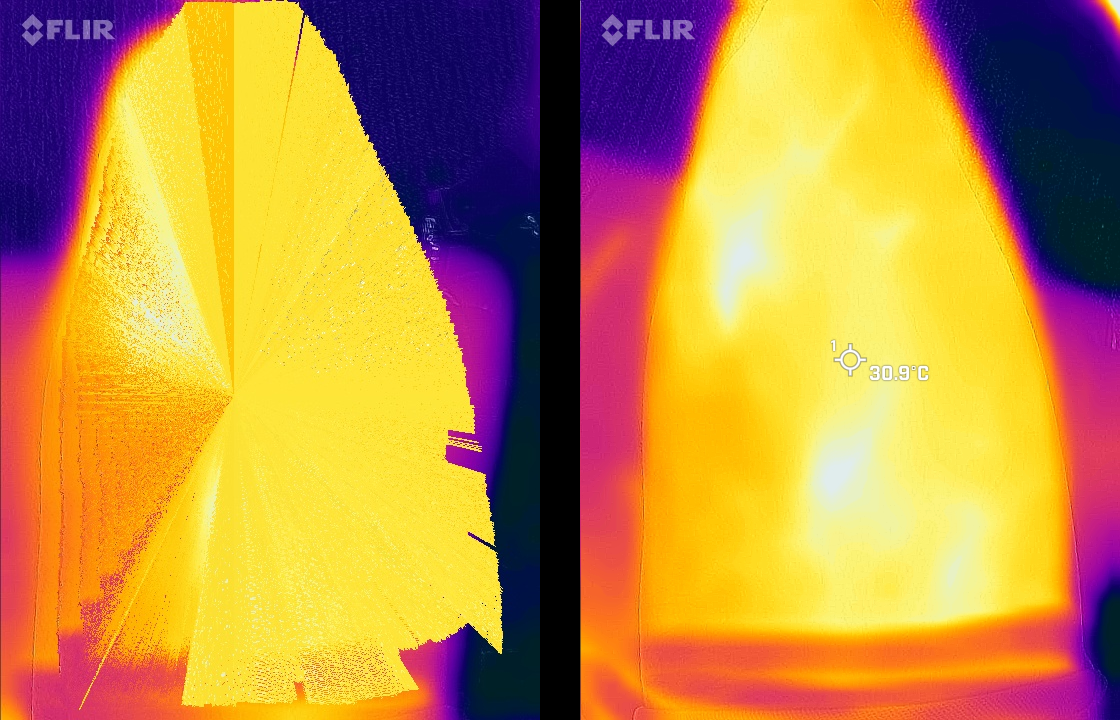
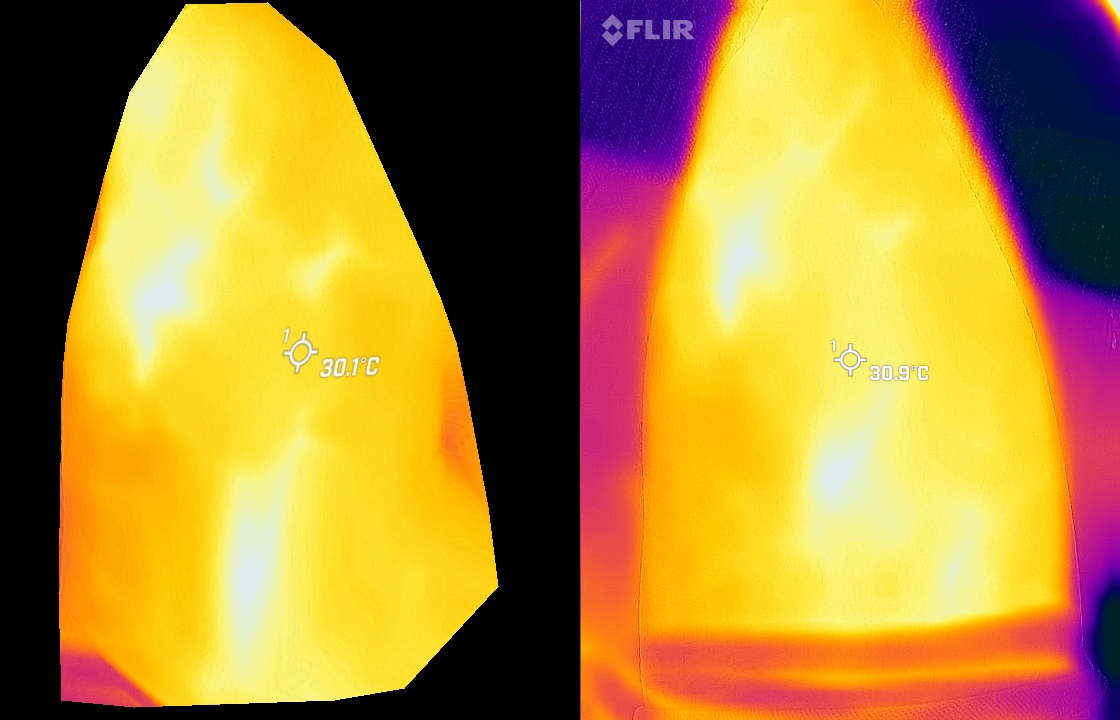
Added a much better mesh deformation algorithm. now I'm trying to fix the image difference algorithm. next task is to get some more thermal + visual data so that I can very the thermal difference algorithm (simple subtraction may not work because the image is a heatmap with seemingly nonlinear color

diff --git a/pipeline/deform.py b/pipeline/deform.py
@@ -6,6 +6,7 @@ import argparse
 from tqdm import tqdm
 import numpy as np
 from scipy import ndimage
+import skimage
 
 def dist(t1, t2):
     return ((t1[0] - t2[0])**2 + (t1[1] - t2[1])**2)**0.5
@@ -225,10 +226,53 @@ def deform_image(img2, center, m1_edge_pts, m2_edge_pts, thermal2, fileName, fil
     cv2.imwrite(fileName, new_img2)
     cv2.imwrite(fileNameThermal, new_thermal)
     print("Total time to deform = ", time.perf_counter() - start)
-    pass
 
-def meshDeform():
-    warped = cv2.remap(thermal2_dst,src,dst,cv2.INTER_LINEAR)
+"""
+https://scikit-image.org/docs/stable/api/skimage.transform.html#skimage.transform.warp
+https://scikit-image.org/docs/dev/auto_examples/transform/plot_piecewise_affine.html
+https://mail.python.org/pipermail/scikit-image/2016-July/004783.html
+"""
+def meshDeform(img2, center, m1_edge_pts, m2_edge_pts, thermal2, fileName, fileNameThermal):
+    # Take a sample of the edge point pairs
+    sample_size = 30
+    sample_src = []
+    sample_dst = []
+    for i in range(0, len(m1_edge_pts), len(m1_edge_pts) // sample_size):
+        sample_src.append(m2_edge_pts[i])
+        sample_dst.append(m1_edge_pts[i])
+
+    # displacement_mtrx = np.zeros(())
+
+    src_unzpd = list(zip(*sample_src))
+    dst_unzpd = list(zip(*sample_dst))
+
+    src_rows = np.array(src_unzpd[0])
+    src_cols = np.array(src_unzpd[1])
+    src_pts = np.dstack([src_cols.flat, src_rows.flat])[0]
+
+    dst_cols = np.array(dst_unzpd[1])
+    dst_rows = np.array(dst_unzpd[0])
+    dst_pts = np.vstack([dst_cols, dst_rows]).T
+
+    tform = skimage.transform.PiecewiseAffineTransform()
+    tform.estimate(src_pts, dst_pts)
+
+    out = skimage.transform.warp(img2, tform)*255
+    out_thermal = (skimage.transform.warp(thermal2, tform)*255)
+
+    out = out.astype(np.uint8)
+    out_thermal = out_thermal.astype(np.uint8)
+    
+    print("OUT SHAPE: ", out.shape)
+    print("img2 shape: ", img2.shape)
+    print("range: ", out.min(), ", ", out.max())
+    print("range img2: ", img2.min(), ", ", img2.max())
+
+    cv2.imshow("warped mesh image", np.concatenate((img2*255, out), axis=1))
+    cv2.waitKey(1000)
+    cv2.destroyAllWindows()
+    cv2.imwrite(fileName, out)
+    cv2.imwrite(fileNameThermal, out_thermal)
 
 # Non-affine transformation
 def cv2Deform(img2, center, m1_edge_pts, m2_edge_pts, thermal2, fileName, fileNameThermal):
@@ -259,14 +303,11 @@ def cv2Deform(img2, center, m1_edge_pts, m2_edge_pts, thermal2, fileName, fileNa
     im_dst = cv2.warpPerspective(img2, h, img2.shape[1::-1])
     thermal2_dst = cv2.warpPerspective(thermal2, h, img2.shape[1::-1])
 
-    cv2.imshow("center", im_dst)
-    cv2.waitKey(3000)
-    cv2.imshow("center", thermal2_dst)
-    cv2.waitKey(3000)
-    cv2.destroyAllWindows()
-
-    pass
-
+    # cv2.imshow("center", im_dst)
+    # cv2.waitKey(3000)
+    # cv2.imshow("center", thermal2_dst)
+    # cv2.waitKey(3000)
+    # cv2.destroyAllWindows()
 
 if __name__ == "__main__":
 
@@ -312,13 +353,19 @@ if __name__ == "__main__":
     # visualize_pairs(img1, m1_edge_pts, img2, m2_edge_pts)
 
     # Now we have the centers, edges, and the lines that connect them. We simply have to "extend" the lines of pixels in one image to the other image.
-    deform_image(img1, center, m1_edge_pts, m2_edge_pts, thermal1, out + "deformed_" + image_1_path.split('/')[-1], out + "thermal_deformed_" + thermal_1_path.split('/')[-1])
-    cv2Deform(img1, center, m1_edge_pts, m2_edge_pts, thermal1, out + "deformed_" + image_1_path.split('/')[-1], out + "thermal_deformed_" + thermal_1_path.split('/')[-1])
-
+    
+    # Alternative (polar) Scaling Method
+    # deform_image(img1.copy(), center, m1_edge_pts, m2_edge_pts, thermal1.copy(), out + "deformed_" + image_1_path.split('/')[-1], out + "thermal_deformed_" + thermal_1_path.split('/')[-1])
+    
+    # Alternative (affine) Scaling Method
+    # cv2Deform(img1.copy(), center, m1_edge_pts, m2_edge_pts, thermal1.copy(), out + "deformed_" + image_1_path.split('/')[-1], out + "thermal_deformed_" + thermal_1_path.split('/')[-1])
+    
+    # Best (mesh warp) Scaling Method
+    meshDeform(img1.copy(), center, m1_edge_pts, m2_edge_pts, thermal1.copy(), out + "deformed__" + image_1_path.split('/')[-1], out + "thermal_deformed_" + thermal_1_path.split('/')[-1])
+    
+    
     # Try this: https://open.win.ox.ac.uk/pages/fsl/fslpy/fsl.transform.nonlinear.html#fsl.transform.nonlinear.DeformationField.__init__
     # https://pypi.org/project/fslpy/
     # https://citeseerx.ist.psu.edu/document?repid=rep1&type=pdf&doi=a863ece2c1c96e2e89c8640bb071cd5b489ae867
     # https://mathlab.github.io/PyGeM/ffd.html
     # https://examples.itk.org/src/filtering/imagegrid/warpanimageusingadeformationfield/documentation
-    
-    # meshDeform(img1, center, m1_edge_pts, m2_edge_pts, thermal1, out + "deformed_" + image_1_path.split('/')[-1], out + "thermal_deformed_" + thermal_1_path.split('/')[-1])

diff --git a/pipeline/difference.py b/pipeline/difference.py
@@ -10,16 +10,49 @@ def load(thermal1_path, thermal2_path):
 
     return (thermal1, thermal2)
 
+def scale(thermal1, thermal2):
+    others = 126
+    thermal1[:,:,2] = thermal1[:,:,0] + thermal1[:,:,1] + thermal1[:,:,2] // 3
+    thermal1[:,:,1] = others
+    thermal1[:,:,0] = others
+    thermal2[:,:,2] = thermal2[:,:,0] + thermal2[:,:,1] + thermal2[:,:,2] // 3
+    thermal2[:,:,1] = others
+    thermal2[:,:,0] = others
+
+def computeDif(thermal1, thermal2):
+    # scale from [-255,255] to [0,255]
+    t1 = thermal1[:,:,0] + thermal1[:,:,1] + thermal1[:,:,2] // 3
+    t2 = thermal2[:,:,0] + thermal2[:,:,1] + thermal2[:,:,2] // 3
+
+    scaleup = 1.25
+    scaledown = 0.75
+
+    dif = (t2 - t1).astype(np.float64)
+    difb = dif.copy().astype(np.float64)
+    difr = dif.copy().astype(np.float64)
+    difb[difb < 0] *= scaledown
+    difr[difr > 0] *= scaleup
+
+    # rerange
+    dif = dif//2 + (255//2)
+    difr = difr//2 + (255//2)
+    difb = difb//2 + (255//2)
+
+    res = np.stack((dif, dif, dif), axis=2).astype(np.uint8)
+
+    return res
+
 def computeDifference(thermal1, thermal2, out):
     compare = np.concatenate((thermal1, np.zeros((thermal1.shape[0],40,3)), thermal2), axis=1)
     difImg = thermal2 - thermal1
+    # difImg = computeDif(thermal1, thermal2)
     
     cv2.imshow("Compare Images", compare)
     cv2.waitKey(1500)
     cv2.destroyAllWindows()
 
     cv2.imshow("Difference Image", difImg)
-    cv2.waitKey(1500)
+    cv2.waitKey(15000)
     cv2.destroyAllWindows()
 
     cv2.imwrite(out + "comparison.png", compare)
@@ -36,4 +69,5 @@ if __name__ == '__main__':
     args = parser.parse_args()
 
     thermal1, thermal2 = load(args.thermal1, args.thermal2)
+    # scale(thermal1, thermal2)
     difImg = computeDifference(thermal1, thermal2, args.out)
